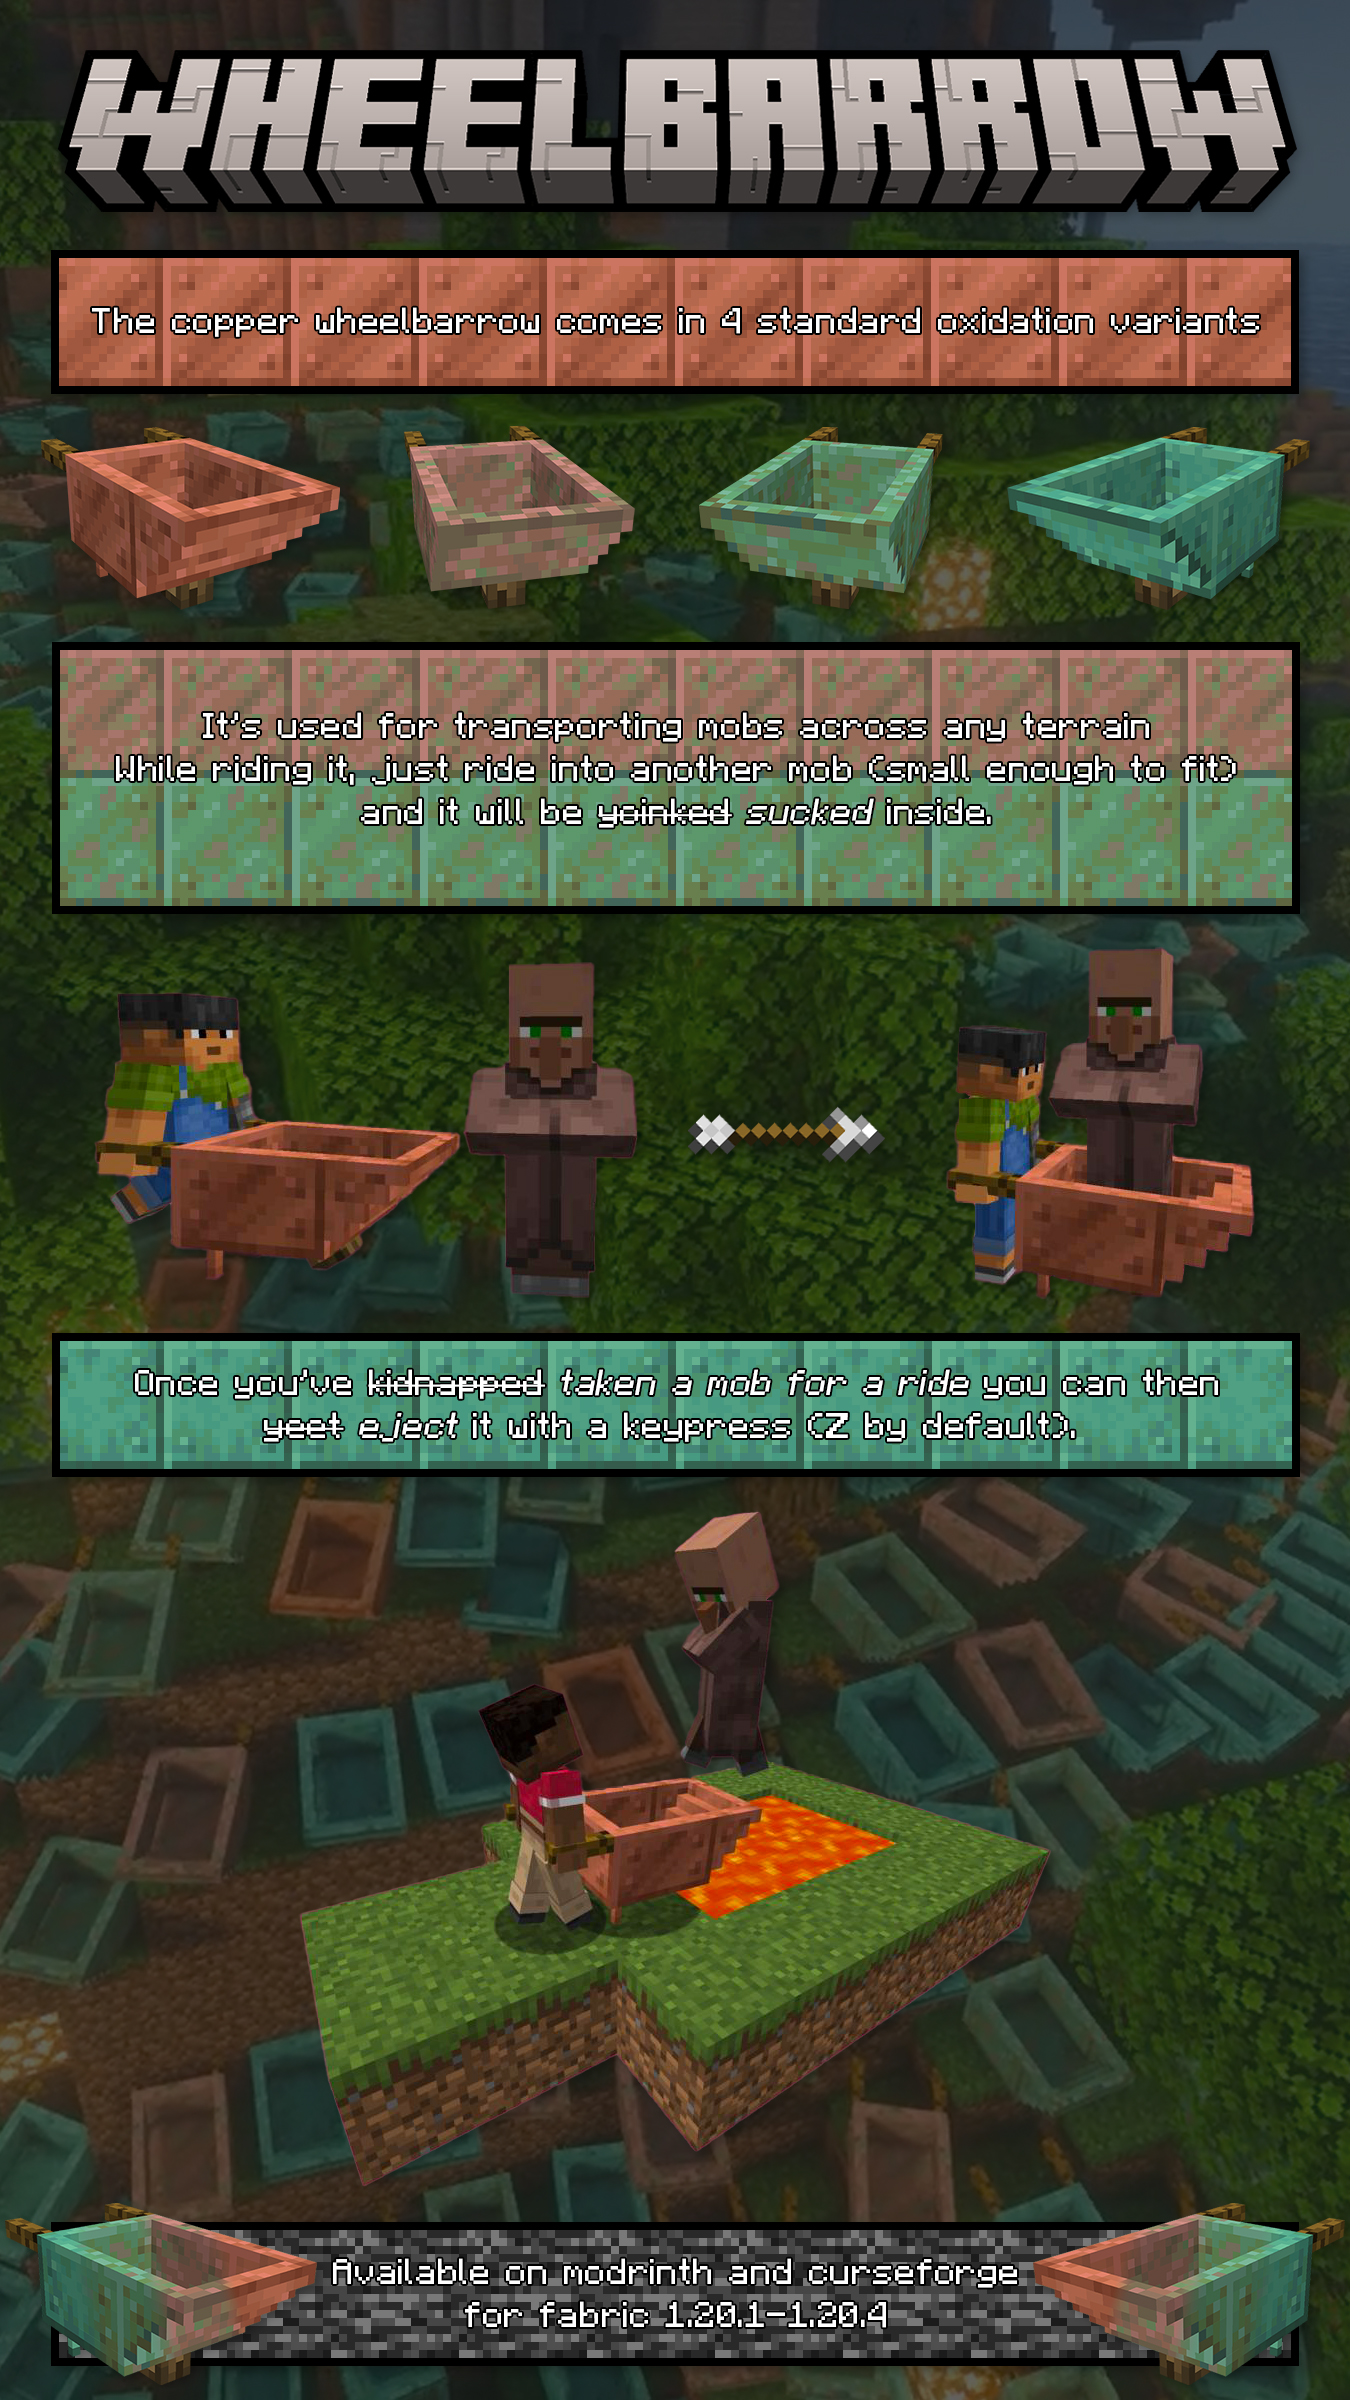
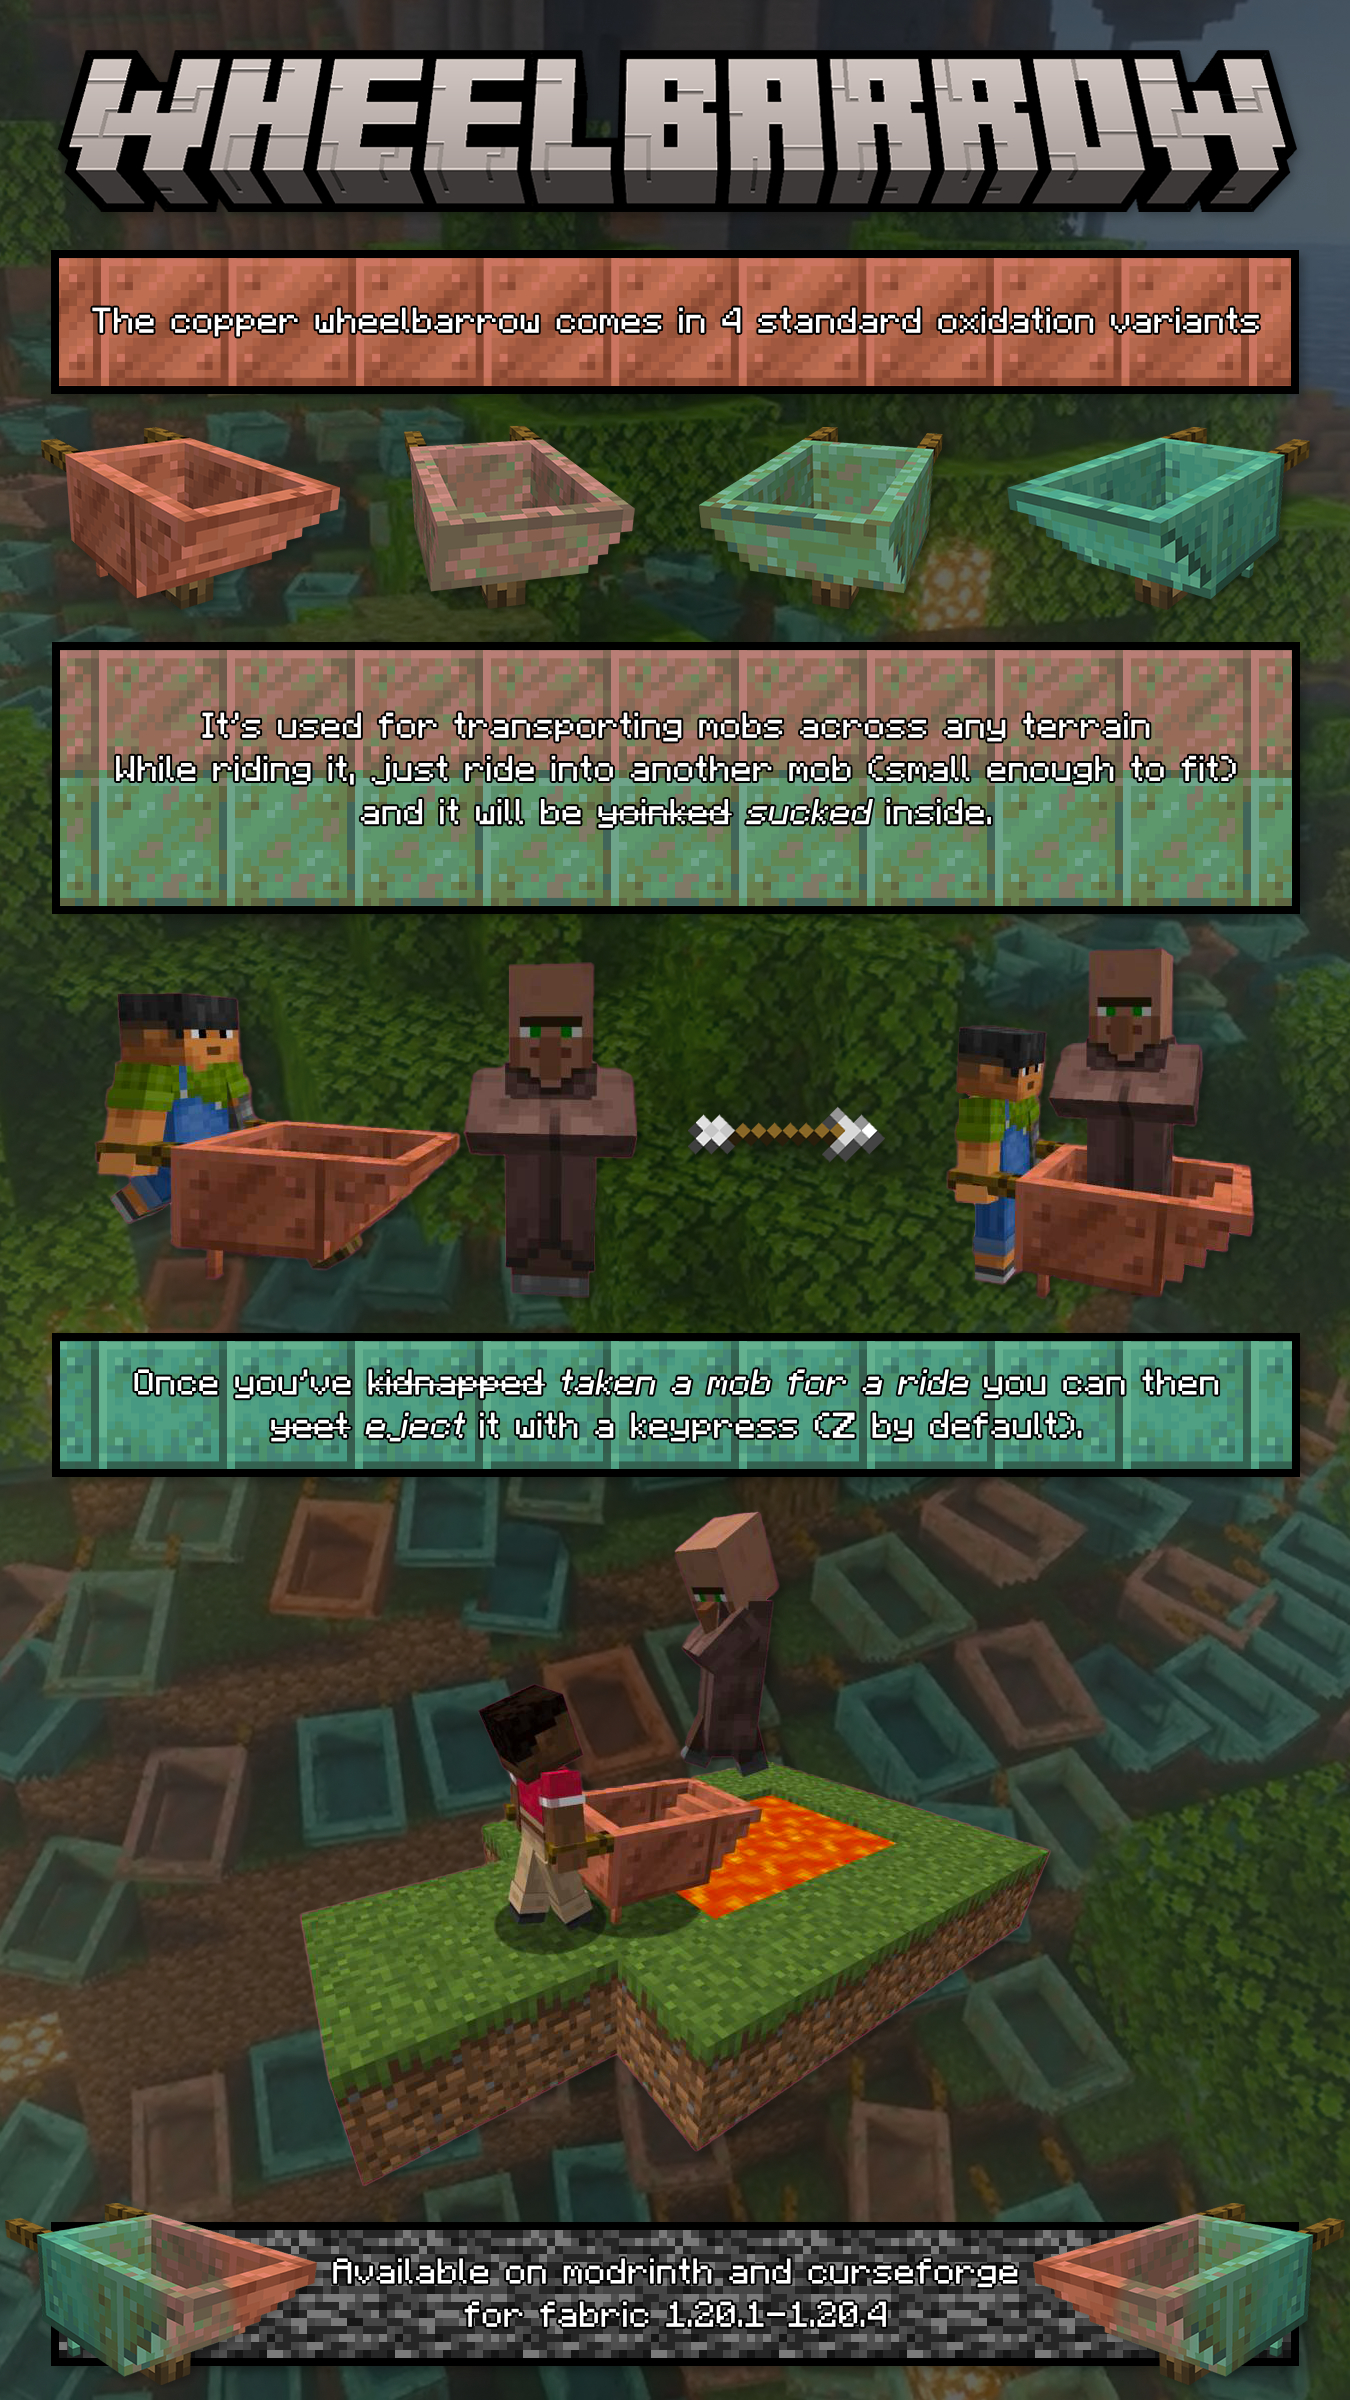
docs: update readme

diff --git a/README.md b/README.md
@@ -6,7 +6,7 @@ _This is the main branch of the repository and it contains code for newest Minec
 
 You can download the mod through [modrinth](https://modrinth.com/mod/wheelbarrow) and [curseforge](https://www.curseforge.com/minecraft/mc-mods/wheelbarrow).
 
-![the showcase image for the mod describing features: taking entities for a ride by bumping into them with a wheelbarrow, ejecting them with the default "Z" keybind and with the wheelbarrow being made of copper: showing the 4 oxidation variants](https://github.com/asasinmode/wheelbarrow/blob/main/docs/showcase.jpg?raw=true)
+![the showcase image for the mod describing features: taking entities for a ride by bumping into them with a wheelbarrow, ejecting them with the default "Z" keybind and with the wheelbarrow being made of copper: showing the 4 oxidation variants](https://github.com/asasinmode/wheelbarrow/blob/main/docs/showcase_cropped.jpg?raw=true)
 
 ## how to dev
 
